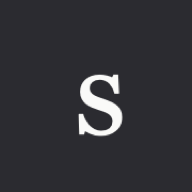
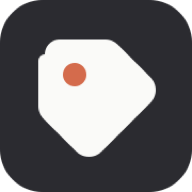
fix: restore posts and brand installed app

diff --git a/src/lib/posts.ts b/src/lib/posts.ts
@@ -58,19 +58,44 @@ const CACHE_TTL = 5 * 60 * 1000
 const CACHE_LIMIT = 500
 let cache: { at: number; posts: Post[] } | null = null
 
+type SnapshotPost = Omit<Post, 'createdAt' | 'updatedAt'> & {
+  createdAt?: string
+  updatedAt?: string
+}
+
+const snapshotTimestamp = (value?: string) =>
+  value ? ({ toDate: () => new Date(value) } as Timestamp) : undefined
+
+async function loadPublishedSnapshot(): Promise<Post[]> {
+  const response = await fetch('/posts.json')
+  if (!response.ok) throw new Error(`글 스냅샷 조회 실패: ${response.status}`)
+  const posts = (await response.json()) as SnapshotPost[]
+  return posts.map((post) => ({
+    ...post,
+    published: true,
+    createdAt: snapshotTimestamp(post.createdAt),
+    updatedAt: snapshotTimestamp(post.updatedAt),
+  }))
+}
+
 async function loadPublished(): Promise<Post[]> {
   if (OFFLINE) return []
   if (cache && Date.now() - cache.at < CACHE_TTL) return cache.posts
 
-  const snap = await getDocs(
-    query(
-      postsCol,
-      where('published', '==', true),
-      orderBy('createdAt', 'desc'),
-      limit(CACHE_LIMIT),
-    ),
-  )
-  cache = { at: Date.now(), posts: snap.docs.map((d) => toPost(d.id, d.data())) }
+  try {
+    const snap = await getDocs(
+      query(
+        postsCol,
+        where('published', '==', true),
+        orderBy('createdAt', 'desc'),
+        limit(CACHE_LIMIT),
+      ),
+    )
+    cache = { at: Date.now(), posts: snap.docs.map((d) => toPost(d.id, d.data())) }
+  } catch (error) {
+    console.warn('Firestore 글 조회에 실패해 배포 스냅샷을 사용합니다.', error)
+    cache = { at: Date.now(), posts: await loadPublishedSnapshot() }
+  }
   return cache.posts
 }
 
@@ -112,8 +137,12 @@ export async function getAdjacentPosts(post: Post): Promise<{ prev?: Post; next?
 export async function getPost(id: string): Promise<Post | null> {
   if (OFFLINE) return null
   if (USE_LOCAL) return (await import('./localData')).localGetPost(id)
-  const snap = await getDoc(doc(postsCol, id))
-  return snap.exists() ? toPost(snap.id, snap.data()) : null
+  try {
+    const snap = await getDoc(doc(postsCol, id))
+    return snap.exists() ? toPost(snap.id, snap.data()) : null
+  } catch {
+    return (await loadPublished()).find((post) => post.id === id) ?? null
+  }
 }
 
 /** 태그 분석의 기준이 되는 코퍼스 — 다른 글들의 제목·본문 */

diff --git a/index.html b/index.html
@@ -8,7 +8,7 @@
     <meta name="theme-color" content="#2b2b30" />
     <meta name="mobile-web-app-capable" content="yes" />
     <meta name="apple-mobile-web-app-capable" content="yes" />
-    <meta name="apple-mobile-web-app-title" content="sanghak" />
+    <meta name="apple-mobile-web-app-title" content="태그 블로그" />
     <meta name="apple-mobile-web-app-status-bar-style" content="black-translucent" />
     <meta name="color-scheme" content="light dark" />
     <meta name="viewport" content="width=device-width, initial-scale=1.0" />

diff --git a/public/sw.js b/public/sw.js
@@ -1,4 +1,4 @@
-const CACHE_VERSION = 'sanghak-v2'
+const CACHE_VERSION = 'tag-blog-v3'
 const APP_SHELL = [
   '/',
   '/manifest.webmanifest',
@@ -7,6 +7,7 @@ const APP_SHELL = [
   '/apple-touch-icon.png',
   '/icon-192.png',
   '/icon-512.png',
+  '/posts.json',
 ]
 
 self.addEventListener('install', (event) => {
